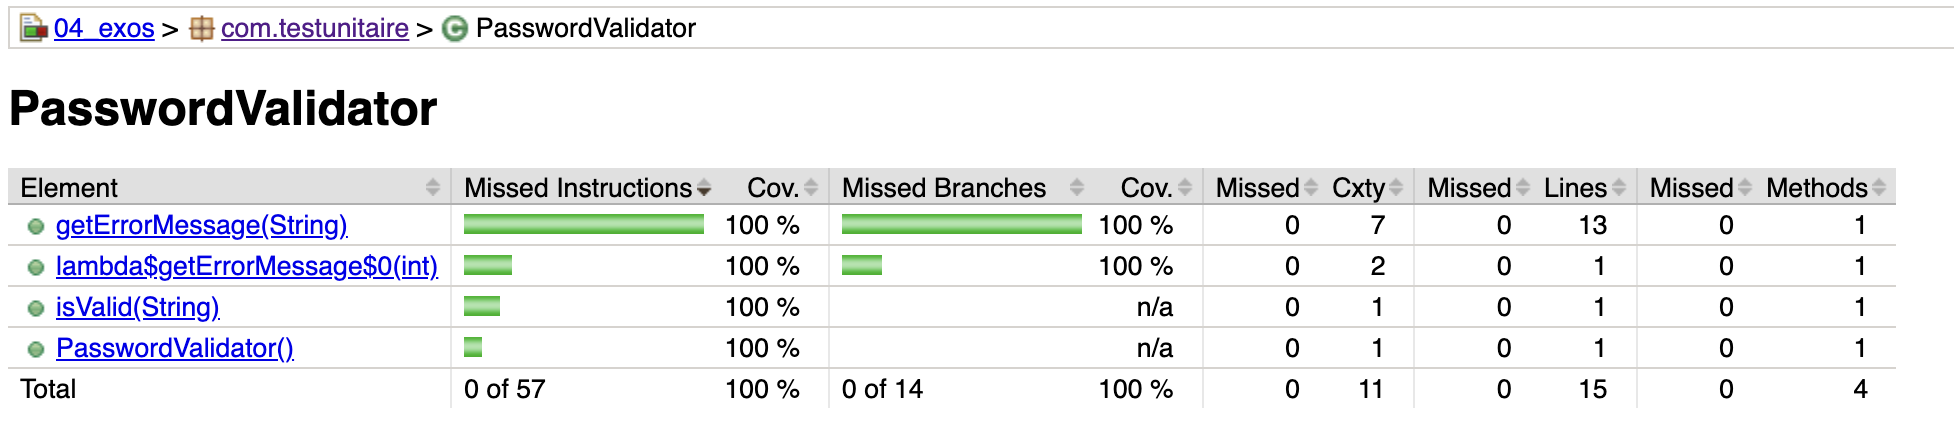
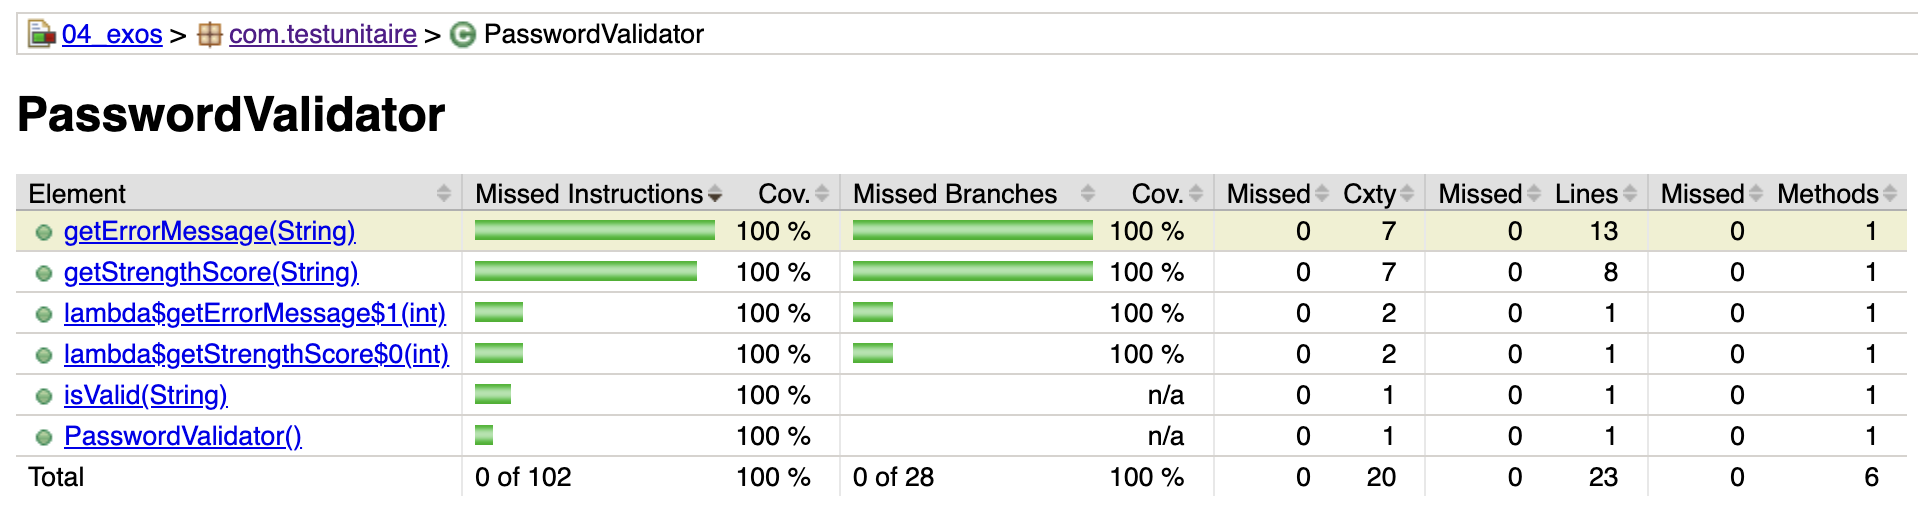
Rajout exo01 & exo02 après leur suppression

diff --git a/exo_01_02/src/test/java/com/testunitaire/PriceCalculatorTest.java b/exo_01_02/src/test/java/com/testunitaire/PriceCalculatorTest.java
@@ -1,0 +1,108 @@
+package com.testunitaire;
+
+import org.junit.jupiter.api.Test;
+import static org.junit.jupiter.api.Assertions.assertEquals;
+import static org.junit.jupiter.api.Assertions.assertThrows;
+
+class PriceCalculatorTest {
+
+    // Cas nominaux
+
+    @Test
+    void calculateTotalPrice_shouldReturn30() {
+        // Arrange
+
+        PriceCalculator priceCalculator = new PriceCalculator();
+
+        // Act
+
+        double result = priceCalculator.calculateTotalPrice(10.0, 3);
+
+        // Assert
+
+        assertEquals(30, result);
+    }
+
+    @Test
+    void applyDiscount_shouldReturn80() {
+        // Arrange
+        PriceCalculator calculator = new PriceCalculator();
+
+        // Act
+        double result = calculator.applyDiscount(100.0, 0.20);
+
+        // Assert
+        assertEquals(80.0, result);
+    }
+
+    @Test
+    void calculateVat_shouldReturn20() {
+        // Arrange
+        PriceCalculator calculator = new PriceCalculator();
+
+        // Act
+        double result = calculator.calculateVat(100.0, 0.20);
+
+        // Assert
+        assertEquals(20.0, result);
+    }
+
+    @Test
+    void calculatePriceWithVat_shouldReturn120() {
+        // Arrange
+        PriceCalculator calculator = new PriceCalculator();
+
+        // Act
+        double result = calculator.calculatePriceWithVat(100.0, 0.20);
+
+        // Assert
+        assertEquals(120.0, result);
+    }
+
+    // Cas d'erreur
+
+    @Test
+    void calculateTotalPrice_negativeUnitPrice_shouldThrow() {
+        // Arrange
+        PriceCalculator calculator = new PriceCalculator();
+
+        // Act & Assert
+        assertThrows(IllegalArgumentException.class, () -> calculator.calculateTotalPrice(-1.0, 3));
+    }
+
+    @Test
+    void calculateTotalPrice_negativeQuantity_shouldThrow() {
+        // Arrange
+        PriceCalculator calculator = new PriceCalculator();
+
+        // Act & Assert
+        assertThrows(IllegalArgumentException.class, () -> calculator.calculateTotalPrice(10.0, -1));
+    }
+
+    @Test
+    void applyDiscount_negativeRate_shouldThrow() {
+        // Arrange
+        PriceCalculator calculator = new PriceCalculator();
+
+        // Act & Assert
+        assertThrows(IllegalArgumentException.class, () -> calculator.applyDiscount(100.0, -0.20));
+    }
+
+    @Test
+    void calculateVat_negativeRate_shouldThrow() {
+        // Arrange
+        PriceCalculator calculator = new PriceCalculator();
+
+        // Act & Assert
+        assertThrows(IllegalArgumentException.class, () -> calculator.calculateVat(100.0, -0.20));
+    }
+
+    @Test
+    void calculatePriceWithVat_negativeRate_shouldThrow() {
+        // Arrange
+        PriceCalculator calculator = new PriceCalculator();
+
+        // Act & Assert
+        assertThrows(IllegalArgumentException.class, () -> calculator.calculatePriceWithVat(100.0, -0.20));
+    }
+}

diff --git a/exo_01_02/src/test/java/com/testunitaire/GradingCalculatorTest.java b/exo_01_02/src/test/java/com/testunitaire/GradingCalculatorTest.java
@@ -1,0 +1,91 @@
+package com.testunitaire;
+
+import org.junit.jupiter.api.Test;
+import static org.junit.jupiter.api.Assertions.assertEquals;
+
+class GradingCalculatorTest {
+
+    @Test
+    void score95_presence90_shouldReturnA() {
+        // Arrange
+        GradingCalculator calculator = new GradingCalculator(95, 90);
+
+        // Act
+        char grade = calculator.getGrade();
+
+        // Assert
+        assertEquals('A', grade);
+    }
+
+    @Test
+    void score85_presence90_shouldReturnB() {
+        // Arrange
+        GradingCalculator calculator = new GradingCalculator(85, 90);
+
+        // Act
+        char grade = calculator.getGrade();
+
+        // Assert
+        assertEquals('B', grade);
+    }
+
+    @Test
+    void score65_presence90_shouldReturnC() {
+        // Arrange
+        GradingCalculator calculator = new GradingCalculator(65, 90);
+
+        // Act
+        char grade = calculator.getGrade();
+
+        // Assert
+        assertEquals('C', grade);
+    }
+
+    @Test
+    void score95_presence65_shouldReturnB() {
+        // Arrange
+        GradingCalculator calculator = new GradingCalculator(95, 65);
+
+        // Act
+        char grade = calculator.getGrade();
+
+        // Assert
+        assertEquals('B', grade);
+    }
+
+    @Test
+    void score95_presence55_shouldReturnF() {
+        // Arrange
+        GradingCalculator calculator = new GradingCalculator(95, 55);
+
+        // Act
+        char grade = calculator.getGrade();
+
+        // Assert
+        assertEquals('F', grade);
+    }
+
+    @Test
+    void score65_presence55_shouldReturnF() {
+        // Arrange
+        GradingCalculator calculator = new GradingCalculator(65, 55);
+
+        // Act
+        char grade = calculator.getGrade();
+
+        // Assert
+        assertEquals('F', grade);
+    }
+
+    @Test
+    void score50_presence90_shouldReturnF() {
+        // Arrange
+        GradingCalculator calculator = new GradingCalculator(50, 90);
+
+        // Act
+        char grade = calculator.getGrade();
+
+        // Assert
+        assertEquals('F', grade);
+    }
+}

diff --git a/exo_01_02/src/main/java/com/testunitaire/PriceCalculator.java b/exo_01_02/src/main/java/com/testunitaire/PriceCalculator.java
@@ -1,0 +1,25 @@
+package com.testunitaire;
+
+public class PriceCalculator {
+
+    public double calculateTotalPrice(double unitPrice, int quantity) {
+        if (unitPrice < 0) throw new IllegalArgumentException("Le prix unitaire ne doit pas être négatif.");
+        if (quantity < 0) throw new IllegalArgumentException("La quantité ne doit pas être négative.");
+        return unitPrice * quantity;
+    }
+
+    public double applyDiscount(double price, double discountRate) {
+        if (discountRate < 0) throw new IllegalArgumentException("Le taux de remise ne doit pas être négatif.");
+        return price - (price * discountRate);
+    }
+
+    public double calculateVat(double price, double vatRate) {
+        if (vatRate < 0) throw new IllegalArgumentException("Le taux de TVA ne doit pas être négatif.");
+        return price * vatRate;
+    }
+
+    public double calculatePriceWithVat(double price, double vatRate) {
+        if (vatRate < 0) throw new IllegalArgumentException("le taux de TVA ne doit pas être négatif");
+        return price + (price * vatRate);
+    }
+}

diff --git a/exo_01_02/src/main/java/com/testunitaire/GradingCalculator.java b/exo_01_02/src/main/java/com/testunitaire/GradingCalculator.java
@@ -1,0 +1,18 @@
+package com.testunitaire;
+
+public class GradingCalculator {
+    public int Score;
+    public int AttendancePercentage;
+
+    public GradingCalculator(int score, int attendancePercentage) {
+        Score = score;
+        AttendancePercentage = attendancePercentage;
+    }
+
+    public char getGrade() {
+        if (Score > 90 && AttendancePercentage > 70) return 'A';
+        else if (Score > 80 && AttendancePercentage > 60) return 'B';
+        else if (Score > 60 && AttendancePercentage > 60) return 'C';
+        else return 'F';
+    }
+}